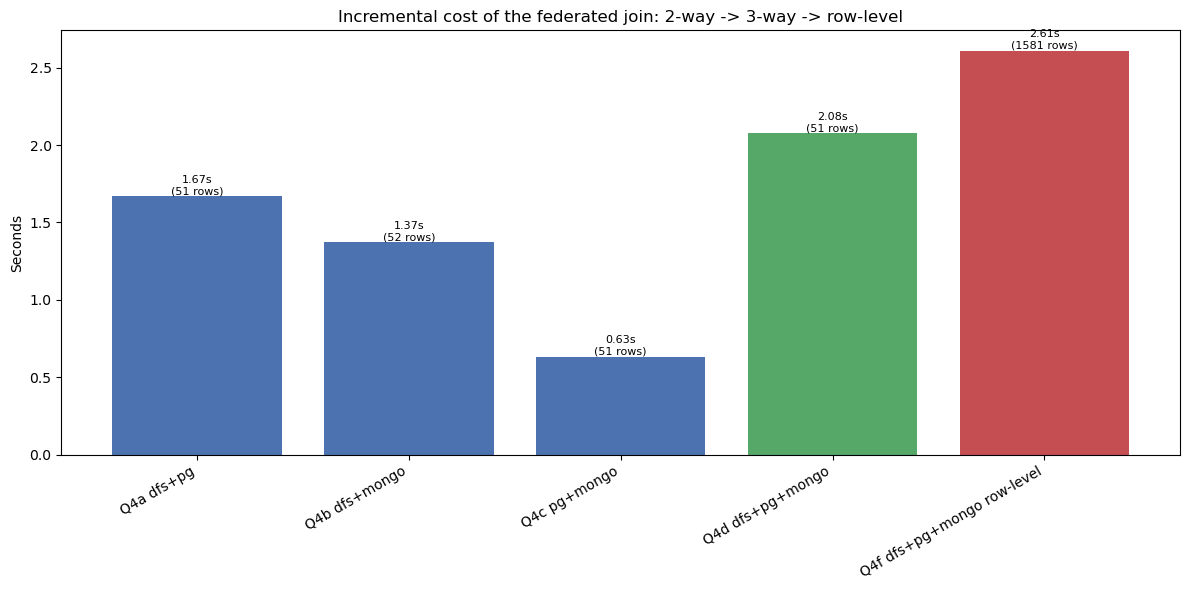
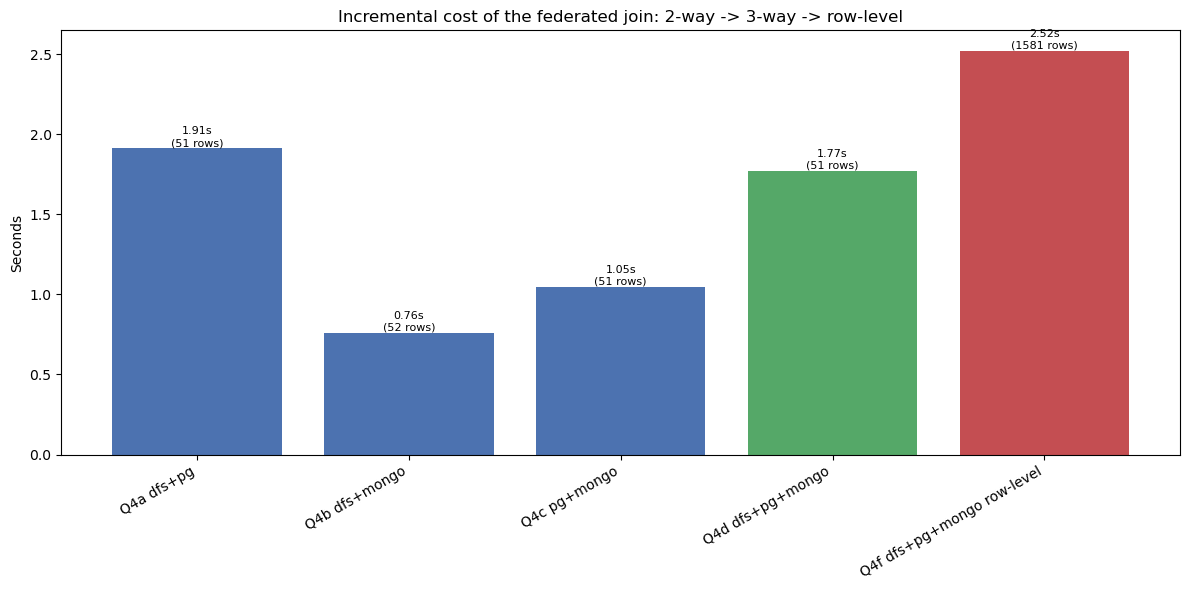
README

diff --git a/README.md b/README.md
@@ -1,0 +1,224 @@
+# Apache Drill Tutorial: query federate su dati sanitari
+
+Questo progetto mostra come usare **Apache Drill 1.21.0** come motore SQL federato per interrogare e combinare dati eterogenei senza centralizzarli in un unico database.
+
+Il caso di studio usa cinque dataset COVID-19 di HealthData.gov distribuiti tra:
+
+- file CSV e Parquet, tramite il plugin `dfs`;
+- PostgreSQL, tramite il plugin JDBC `pg`;
+- MongoDB, tramite il plugin `mongo`.
+
+La query principale esegue un join tra capacità ospedaliera, stime dei posti letto e centri terapeutici attivi usando un'unica istruzione SQL.
+
+## Architettura
+
+```mermaid
+flowchart LR
+    J[Jupyter<br/>:8888] -->|REST API| D[Apache Drill 1.21<br/>:8047 / :31010]
+    D -->|dfs| F[CSV e Parquet]
+    D -->|JDBC| P[PostgreSQL 15<br/>:5432]
+    D -->|plugin mongo| M[MongoDB 6<br/>:27017]
+    A[pgAdmin<br/>:5050] --> P
+    X[mongo-express<br/>:8081] --> M
+```
+
+Tutti i servizi vengono avviati da Docker Compose sulla rete `health-net`. Drill non memorizza i dati: legge ogni sorgente attraverso gli storage plugin definiti in [`drill-config/storage-plugins.conf`](drill-config/storage-plugins.conf).
+
+## Prerequisiti
+
+- Docker Desktop con Docker Compose;
+- Python 3.10 o successivo per preparare e caricare i dati;
+- almeno 12 GB di memoria disponibile per Docker, in base ai limiti configurati per Drill;
+- `curl` per scaricare il driver JDBC.
+
+I dataset e i file JAR sono esclusi da Git. Devono quindi essere aggiunti localmente prima del primo avvio.
+
+## Avvio rapido
+
+### 1. Scaricare il driver PostgreSQL
+
+Dalla root del repository:
+
+```bash
+mkdir -p jdbc-drivers
+curl -L -o jdbc-drivers/postgresql-42.7.3.jar \
+  https://repo1.maven.org/maven2/org/postgresql/postgresql/42.7.3/postgresql-42.7.3.jar
+```
+
+### 2. Scaricare i dataset
+
+Esportare manualmente in formato CSV i dataset completi dalle rispettive pagine HealthData.gov:
+
+```bash
+mkdir -p data
+```
+
+| Dataset | Destinazione finale | Sorgente usata da Drill |
+| --- | --- | --- |
+| [Hospital Capacity State Timeseries](https://healthdata.gov/Hospital/COVID-19-Reported-Patient-Impact-and-Hospital-Capa/g62h-syeh/explore/page/filter) | `data/covid/hospital_capacity.csv` | `dfs` |
+| [Estimated Inpatient Beds State Timeseries](https://healthdata.gov/dataset/COVID-19-Estimated-Inpatient-Beds-Occupied-by-COVI/py8k-j5rq/about_data) | `data/estimated_beds/estimated_beds.csv` | PostgreSQL |
+| [Public Therapeutic Locator](https://healthdata.gov/Health/COVID-19-Public-Therapeutic-Locator/rxn6-qnx8/about_data) | `data/therapeutic/therapeutic_locator.csv` | MongoDB |
+| [Community Profile Report — County Level](https://healthdata.gov/dataset/COVID-19-Community-Profile-Report-County-Level/di4u-7yu6/about_data) | `data/county/community_profile.csv` | `dfs` |
+| [COVID-19 Treatments](https://healthdata.gov/ASPR/COVID-19-Treatments/xkzp-zhs7/about_data) | `data/treatments/treatments.csv` | `dfs` |
+
+Le API Socrata possono restituire solo una parte dei dati senza token; per riprodurre l'analisi servono gli export completi. I nomi scaricati contengono in genere una data. Impostare `DATE` con il suffisso presente nei file:
+
+```bash
+DATE=20260617
+
+mkdir -p data/raw data/covid data/covid_parquet data/county \
+  data/estimated_beds data/therapeutic data/treatments
+
+cp "data/COVID-19_Reported_Patient_Impact_and_Hospital_Capacity_by_State_Timeseries_(RAW)_${DATE}.csv" \
+  data/covid/hospital_capacity.csv
+cp "data/COVID-19_Estimated_Inpatient_Beds_Occupied_by_COVID-19_Patients_by_State_Timeseries_${DATE}.csv" \
+  data/estimated_beds/estimated_beds.csv
+cp "data/COVID-19_Public_Therapeutic_Locator_${DATE}.csv" \
+  data/therapeutic/therapeutic_locator.csv
+cp "data/COVID-19_Community_Profile_Report_-_County-Level_${DATE}.csv" \
+  data/county/community_profile.csv
+cp "data/COVID-19_Treatments_${DATE}.csv" \
+  data/treatments/treatments.csv
+
+mv data/COVID-19_*.csv data/raw/
+```
+
+### 3. Preparare i dati
+
+Creare un ambiente Python e installare le dipendenze utilizzate dagli script:
+
+```bash
+python3 -m venv .venv
+source .venv/bin/activate
+python -m pip install pandas pyarrow pymongo
+```
+
+Normalizzare le colonne, generare la versione Parquet e controllare i dataset:
+
+```bash
+python scripts/normalize_columns.py
+python scripts/csv_to_parquet.py
+python scripts/inspect_datasets.py
+```
+
+La copia CSV originale di Hospital Capacity resta disponibile per mostrare lo schema-on-read. La versione Parquet consente invece di confrontare parsing, compressione e prestazioni di un formato colonnare.
+
+### 4. Avviare i servizi
+
+```bash
+docker compose up -d
+docker compose ps
+```
+
+Attendere che `postgres` e `mongo` risultino `healthy`. Il primo avvio deve scaricare le immagini e può richiedere alcuni minuti.
+
+### 5. Caricare PostgreSQL e MongoDB
+
+La definizione della tabella PostgreSQL viene eseguita automaticamente solo quando il volume viene creato. I comandi seguenti funzionano anche con volumi già esistenti e rendono il caricamento ripetibile:
+
+```bash
+docker exec -i postgres psql -U drill -d healthdata \
+  < init-sql/01_load_estimated_beds.sql
+
+docker cp data/estimated_beds/estimated_beds_clean.csv \
+  postgres:/tmp/estimated_beds_clean.csv
+
+docker exec postgres psql -U drill -d healthdata -c \
+  "\copy healthdata.estimated_beds FROM '/tmp/estimated_beds_clean.csv' CSV HEADER;"
+
+python init-mongo/01_load_therapeutic.py
+```
+
+Verificare i record caricati:
+
+```bash
+docker exec postgres psql -U drill -d healthdata -c \
+  "SELECT COUNT(*), MIN(collection_date), MAX(collection_date) FROM healthdata.estimated_beds;"
+
+docker exec mongo mongosh \
+  "mongodb://drill:drill123@localhost:27017/healthdata?authSource=admin" \
+  --quiet --eval "db.therapeutic.countDocuments({})"
+```
+
+## Eseguire le query
+
+Aprire la [Drill Web UI](http://localhost:8047), selezionare **Query** ed eseguire il test:
+
+```sql
+SELECT * FROM sys.version;
+```
+
+Le sette query dimostrative complete sono in [`queries/demo_queries.sql`](queries/demo_queries.sql). Copiarle nella Web UI singolarmente: il percorso copre schema-on-read, aggregazioni sulle singole sorgenti, join federato, confronto CSV/Parquet e analisi a granularità statale e di contea.
+
+Esempio di accesso alle tre sorgenti:
+
+```sql
+SELECT * FROM dfs.healthdata.`covid/hospital_capacity.csv` LIMIT 5;
+SELECT * FROM pg.healthdata.estimated_beds LIMIT 5;
+SELECT * FROM mongo.healthdata.therapeutic LIMIT 5;
+```
+
+## Notebook e interfacce
+
+| Servizio | URL | Uso |
+| --- | --- | --- |
+| Apache Drill | <http://localhost:8047> | Query, storage plugin e profili |
+| JupyterLab | <http://localhost:8888> | Notebook di analisi e grafici |
+| pgAdmin | <http://localhost:5050> | Amministrazione PostgreSQL |
+| mongo-express | <http://localhost:8081> | Esplorazione MongoDB |
+
+Il notebook [`notebooks/analysis.ipynb`](notebooks/analysis.ipynb) interroga Drill attraverso la REST API, misura le query su più esecuzioni e genera i grafici di confronto. Jupyter è configurato senza token perché l'ambiente è pensato esclusivamente per uso locale.
+
+## Struttura del repository
+
+```text
+.
+├── data/                 # CSV e Parquet locali, non versionati
+├── drill-config/         # configurazione degli storage plugin
+├── init-mongo/           # caricamento della collection therapeutic
+├── init-sql/             # schema PostgreSQL
+├── jdbc-drivers/         # driver JDBC locale, non versionato
+├── notebooks/            # analisi, benchmark e grafici
+├── queries/              # query SQL dimostrative
+├── report/               # relazione e immagini prodotte
+├── scripts/              # ispezione, normalizzazione e conversione
+├── commands.txt          # sequenza operativa estesa
+└── docker-compose.yml    # stack locale completo
+```
+
+## Configurazione
+
+Docker Compose usa questi valori predefiniti:
+
+```dotenv
+POSTGRES_DB=healthdata
+POSTGRES_USER=drill
+POSTGRES_PASSWORD=drill123
+MONGO_DB=healthdata
+MONGO_USER=drill
+MONGO_PASSWORD=drill123
+```
+
+È possibile sovrascriverli in `.env`, ma le connessioni in `drill-config/storage-plugins.conf` e i comandi di caricamento devono essere aggiornati con gli stessi valori. Le credenziali predefinite e le interfacce senza autenticazione sono adatte solo a un ambiente locale di sviluppo.
+
+## Arresto e pulizia
+
+Arrestare i container mantenendo i dati persistenti:
+
+```bash
+docker compose down
+```
+
+Per ricreare PostgreSQL e MongoDB da zero, eliminare anche i volumi:
+
+```bash
+docker compose down -v
+```
+
+Il secondo comando cancella i dati caricati nei database; i file presenti nella directory locale `data/` non vengono rimossi.
+
+## Approfondimenti
+
+- [`commands.txt`](commands.txt): comandi operativi dettagliati;
+- [`report/report.tex`](report/report.tex): relazione completa, architettura, risultati e limiti;
+- [`scripts/output/inspect_dataset_out.txt`](scripts/output/inspect_dataset_out.txt): schema e dimensioni dei dataset usati nell'analisi.
